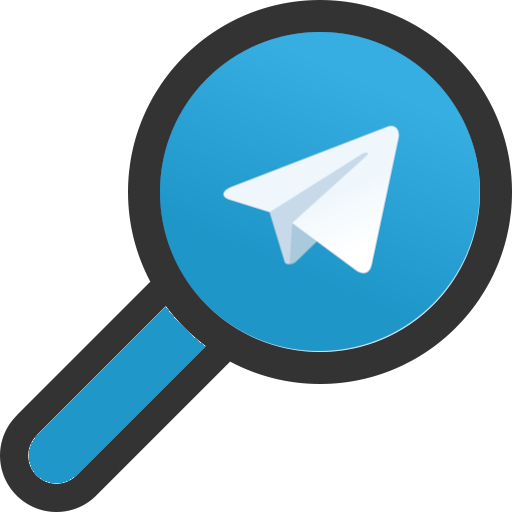
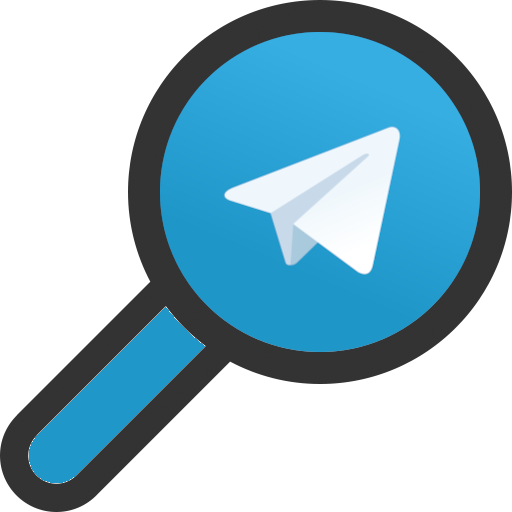
READme update

diff --git a/README.md b/README.md
@@ -1,5 +1,5 @@
 # <p align="center">Telegram Group/Channel Parser
-![icon.png](icon.png)
+    <img src="icon.png" alt="drawing" width="200" align="center"/>
 Telegram Parser
  Script parse telegram links and sort them to channel/group database.
 
